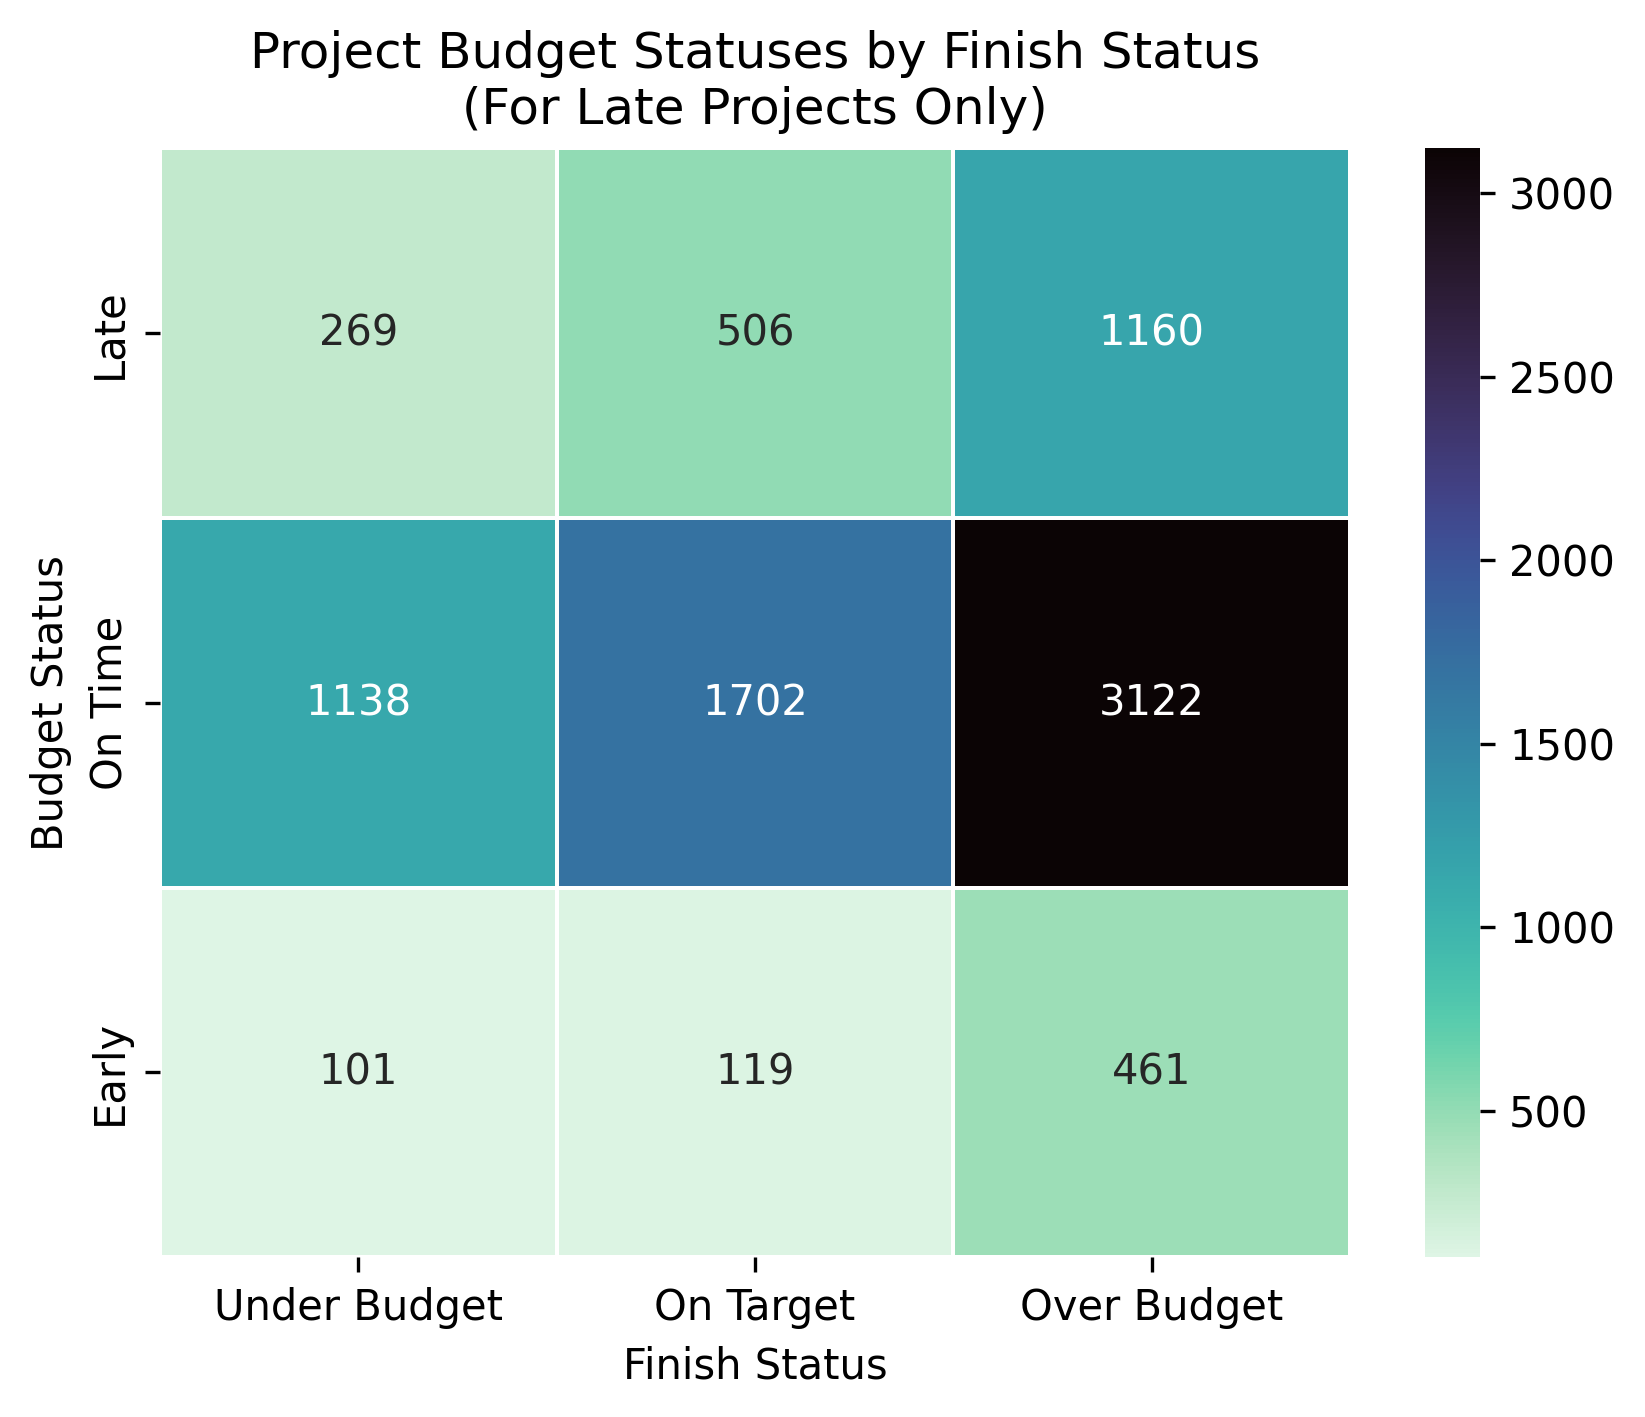
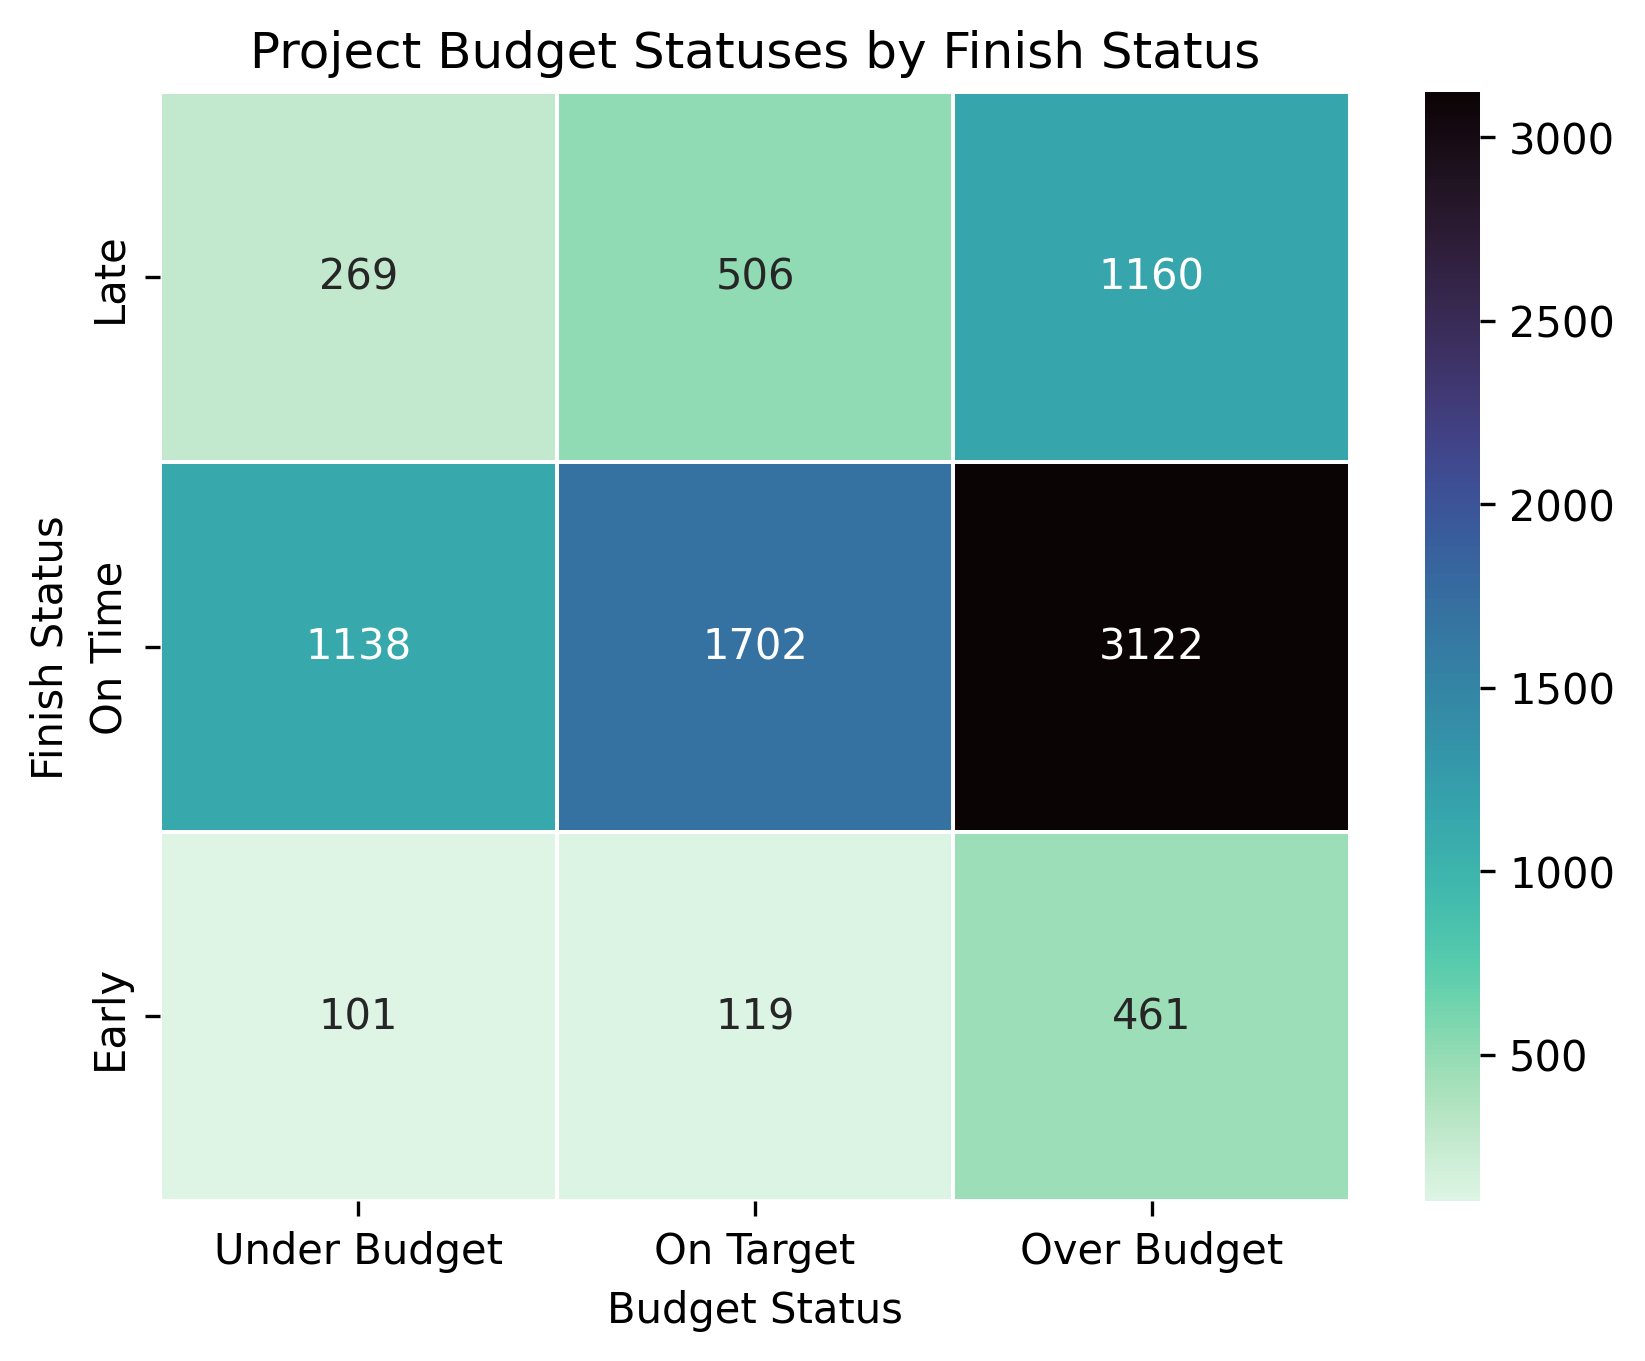
Update streamlit app

diff --git a/app.py b/app.py
@@ -9,48 +9,247 @@ projectCosts = pd.read_csv('data/projectCosts.csv')
 deltasHeatMapDF = pd.read_csv('data/deltasHeatMapDF.csv',index_col=0)
 costStatusHeatMapDF = pd.read_csv('data/costStatusHeatMapDF.csv',index_col=0)
 
-# create 
 boroNames = projectCosts.boro.unique().tolist()
 
-# --------- Dashboard Layout ---------
-st.title("Exploring NYC Construction Delays")
+##############################################################################
+#                        --------- Sidebar ---------                         #
+##############################################################################
+st.set_page_config(page_title="Explore NYC Construction Delays and Costs")
 
-""" show project deltas heatmap plot?"""
+st.sidebar.header("About",divider="red")
 
-    # ---- Select Borough ----
-    
-filtered_boros = st.multiselect('Select Boroughs',projectCosts['boro'].unique(), default=projectCosts['boro'].unique())
+st.sidebar.markdown("""
+                This dashboard is part of my final project for my STAT 386 class at BYU.
+                The goal of the project was to see look at construction projects to see if 
+                project proposals over promise and under deliver (i.e. projects were finished 
+                later than planned and went over budget). The data used in this project was 
+                collected from the [NYC Open Data Portal](https://data.cityofnewyork.us/).
+                """)
+
+
+st.sidebar.markdown("---")
+
+st.sidebar.header("Helpful Links",divider="red")
+st.sidebar.markdown(
+            """
+        - [Repo for this Project](https://github.com/aoustrich/NYC_ConstructionDelays)
+        - [Data Collection and Cleaning](https://aoustrich.github.io/blog/2023/Construction-Delays-Part-1/)
+        - [EDA and Conclusions](https://aoustrich.github.io/blog/2023/Construction-Delays-Part-2/)
+        """
+    )
+
+st.sidebar.markdown("---")
+st.sidebar.header("About Me",divider="red")
+st.sidebar.info("Check out my [website](https://aoustrich.github.io/) to learn more about me and see other projects!", icon="ℹ")
+
+
+##############################################################################
+#                        --------- Part 1 ---------                          #
+##############################################################################
+
+# st.markdown("## Compare Project Budget and Timeline Statuses Across Multiple Boroughs")
+st.header("Compare Project Budget and Timeline Statuses Across Multiple Boroughs",divider="green")
+
+filtered_boros = st.multiselect('What Boroughs do you want to see?',boroNames,
+                                 default=boroNames)
 df_filtered_boros = projectCosts[projectCosts['boro'].isin(filtered_boros)]
 
-fig1 = px.bar(df_filtered_boros,
+def createBorosBudgetStatusBar():
+    fig = px.bar(df_filtered_boros,
              x='boro',
              color='costStatus',
              barmode='group',
              category_orders={'costStatus': ["Under Budget","On Target","Over Budget"]},
-             title='Count of Cost Status Across Boroughs'
+             title='Budget Status Across Boroughs'
             )
+    fig.update_layout(
+        xaxis=dict(title='Borough'),
+        yaxis=dict(title='Count'),
+        legend_title='Budget Status',
+        height=500,
+        width=500
+        )
+    return fig
 
-fig1.update_layout(
-    xaxis=dict(title='Borough'),
-    yaxis=dict(title='Count'),
-    legend_title='Cost Status'
-)
+def createBorosStartStatusBar():
+    fig = px.bar(df_filtered_boros,
+             x='boro',
+             color='startStatus',
+             barmode='group',
+             category_orders={'startStatus': ["Early","On Time","Late"]},
+             title='Start Status Across Boroughs'
+            )
+    fig.update_layout(
+        xaxis=dict(title='Borough'),
+        yaxis=dict(title='Count'),
+        legend_title='Start Status',
+        height=500,
+        width=500
+        )
+    return fig
 
-st.plotly_chart(fig1)
-    # ---- Select Project Type ----
+def createBorosEndStatusBar():
+    fig = px.bar(df_filtered_boros,
+             x='boro',
+             color='endStatus',
+             barmode='group',
+             category_orders={'endStatus': ["Early","On Time","Late"]},
+             title='End Status Across Boroughs'
+            )
+    fig.update_layout(
+        xaxis=dict(title='Borough'),
+        yaxis=dict(title='Count'),
+        legend_title='End Status',
+        height=500,
+        width=500
+        )
+    return fig
 
-st.markdown("---")
 
-fig2 = px.bar(df_filtered_boros, x=filtered_boros, color='costStatus', barmode='group')
-st.plotly_chart(fig2)
+plot1 = createBorosBudgetStatusBar()
+plot2 = createBorosStartStatusBar()
+plot2 = createBorosEndStatusBar()
+
+#  if i'm using streamlit expanders how can I make it so when one is expanded all others collapse? 
+
+st.write("Click on the expanders below to see the different plots.")
+
+with st.expander("Project Budget Status Across Boroughs"):
+    st.plotly_chart(plot1)
+
+with st.expander("Project Start Status Across Boroughs"):
+    st.plotly_chart(plot2)
+
+with st.expander("Project End Status Across Boroughs"):
+    st.plotly_chart(plot2)
 
 
-# # Allow the user to select the schools to display
-# schools = st.multiselect('Select schools to display', df['School'].unique(), default=list(df['School'].unique())) 
-# df_barplot = df[df['School'].isin(schools)]
-# # Allow the user to select the years to display
-# #years = st.multiselect('Select years to display', df['Year'].unique(), default=list(df['Year'].unique()))
+##############################################################################
+#                        --------- Part 2 ---------                          #
+##############################################################################
 
-# # Plot the data using the selected X axis on a bar plot
-# fig = px.bar(df_barplot, x=x_axis, y='School', color='Year', orientation='h', barmode='group')
-# st.plotly_chart(fig)
+st.header("Compare Project Stage Time Deltas for 2 Boroughs",divider="green")
+
+stageCol1, stageCol2, stageCol3 = st.columns(3, gap="large")
+
+with stageCol1:
+    stageBoro1 = st.selectbox('Pick the 1st Borough',
+                         options = boroNames,
+                         index=None)
+
+with stageCol2:
+    secondBoroOptions = projectCosts[projectCosts['boro']!= stageBoro1]['boro'].unique().tolist()
+    stageBoro2 = st.selectbox('Pick the 2nd Borough',
+                        #  options = projectCosts[projectCosts['boro']!= stageBoro1]['boro'].unique().tolist())
+                        options = secondBoroOptions,
+                        index = None)
+with stageCol3:
+    projectStage_xAxis_Selector = st.selectbox('Pick a Project Stage to Visualize',
+                                               options = ["Start","End"],
+                                               index = None)
+
+borosToCompare = [stageBoro1, stageBoro2]
+projectStage_xAxis = ""
+projectStage_xAxis_Filter = ""
+projectStageTitle = ""
+
+if stageBoro1 is not None and stageBoro2 is not None and projectStage_xAxis_Selector is not None:
+
+    if projectStage_xAxis_Selector == 'Start':
+        projectStage_xAxis = 'starting_delta'
+        projectStage_xAxis_Filter = 'startStatus'
+        projectStageTitle = 'Starting Delta'
+    else:
+        projectStage_xAxis = 'ending_delta'
+        projectStage_xAxis_Filter = 'endStatus'
+        projectStageTitle = 'Ending Delta'
+
+
+    projectStageDF = projectCosts[projectCosts['boro'].isin(borosToCompare)]
+    projectStageDF = projectStageDF[projectStageDF[projectStage_xAxis_Filter] != 'On Time']
+
+    def generateBoroComparisonHistogram():
+        fig = px.histogram(projectStageDF, 
+                    x=projectStage_xAxis, 
+                    color='boro', 
+                    barmode='stack', 
+                    nbins=200, 
+                    title=f"Comparing {stageBoro1} & {stageBoro2} {projectStageTitle}s")
+        fig.update_layout(xaxis=dict(range=[-250, 250]),
+                        legend_title='Borough',
+                        height=500,
+                        width=500,
+                        xaxis_title= projectStageTitle,
+                        yaxis_title='Count'
+                    )
+        return fig
+
+
+    st.plotly_chart(generateBoroComparisonHistogram())
+
+else:
+    st.write("Please select two boroughs and a project stage to compare.")
+
+##############################################################################
+#                        --------- Part 3 ---------                          #
+##############################################################################
+
+st.header("Compare Budget Status and Project Stage Status for 1 Borough",divider="green")
+
+hMapCol1, hMapCol2 = st.columns(2, gap="large")
+
+with hMapCol1:
+    hMapBoro = st.selectbox('Pick a Borough',
+                         options = boroNames,
+                         index=None)
+
+with hMapCol2:
+    hMap_yAxis_Selector = st.selectbox('Pick a Project Stage for the Heatmap',
+                                               options = ["Start","End"],
+                                               index = None)
+    
+
+
+if hMapBoro is not None and hMap_yAxis_Selector is not None:
+    if hMap_yAxis_Selector == 'Start':
+        hMap_yAxis = 'startStatus'
+        hMapTitle = 'Start Status'
+    else:
+        hMap_yAxis = 'endStatus'
+        hMapTitle = 'End Status'
+
+    budgetStageHMapDF = projectCosts[projectCosts['boro']==hMapBoro]\
+                            .groupby(['costStatus', hMap_yAxis]).size().unstack()\
+                            .reindex(columns=["Late", "On Time", "Early"],
+                                      index=["Under Budget", "On Target", "Over Budget"]).T
+
+    def generateBoroHeatMap():
+        fig = px.imshow(deltasHeatMapDF,
+                        labels=dict(x="Budget Status", y=hMapTitle), 
+                        x=budgetStageHMapDF.columns,
+                        y=budgetStageHMapDF.index,
+                        color_continuous_scale="deep",
+                        title=f"Project {hMapTitle} and Budget Heatmap for {hMapBoro}",
+                        text_auto=True
+                        )
+        
+        if hMapTitle == 'Start Status':
+            fig.update_traces(hovertemplate="Budget Status: %{y}<br>Start Status: %{x}<br>Count: %{z}")
+        else:
+            fig.update_traces(hovertemplate="Budget Status: %{y}<br>End Status: %{x}<br>Count: %{z}")
+        
+        fig.update_layout(
+                        xaxis_title='Budget Status',
+                        yaxis_title=hMapTitle,
+                        height=500,
+                        width=500,
+                        coloraxis_showscale=False
+                    )
+        return fig
+    
+    st.plotly_chart(generateBoroHeatMap())
+
+else:
+    st.write("Please select a Borough and a Project Stage.")
+# deltasHeatMapDF = projectDeltas.groupby(['Start Status', 'End Status']).size().unstack().fillna(0)
+# deltasHeatMapDF = deltasHeatMapDF.reindex(columns=["Early", "On Time", "Late"], index=["Late", "On Time", "Early"]).T
